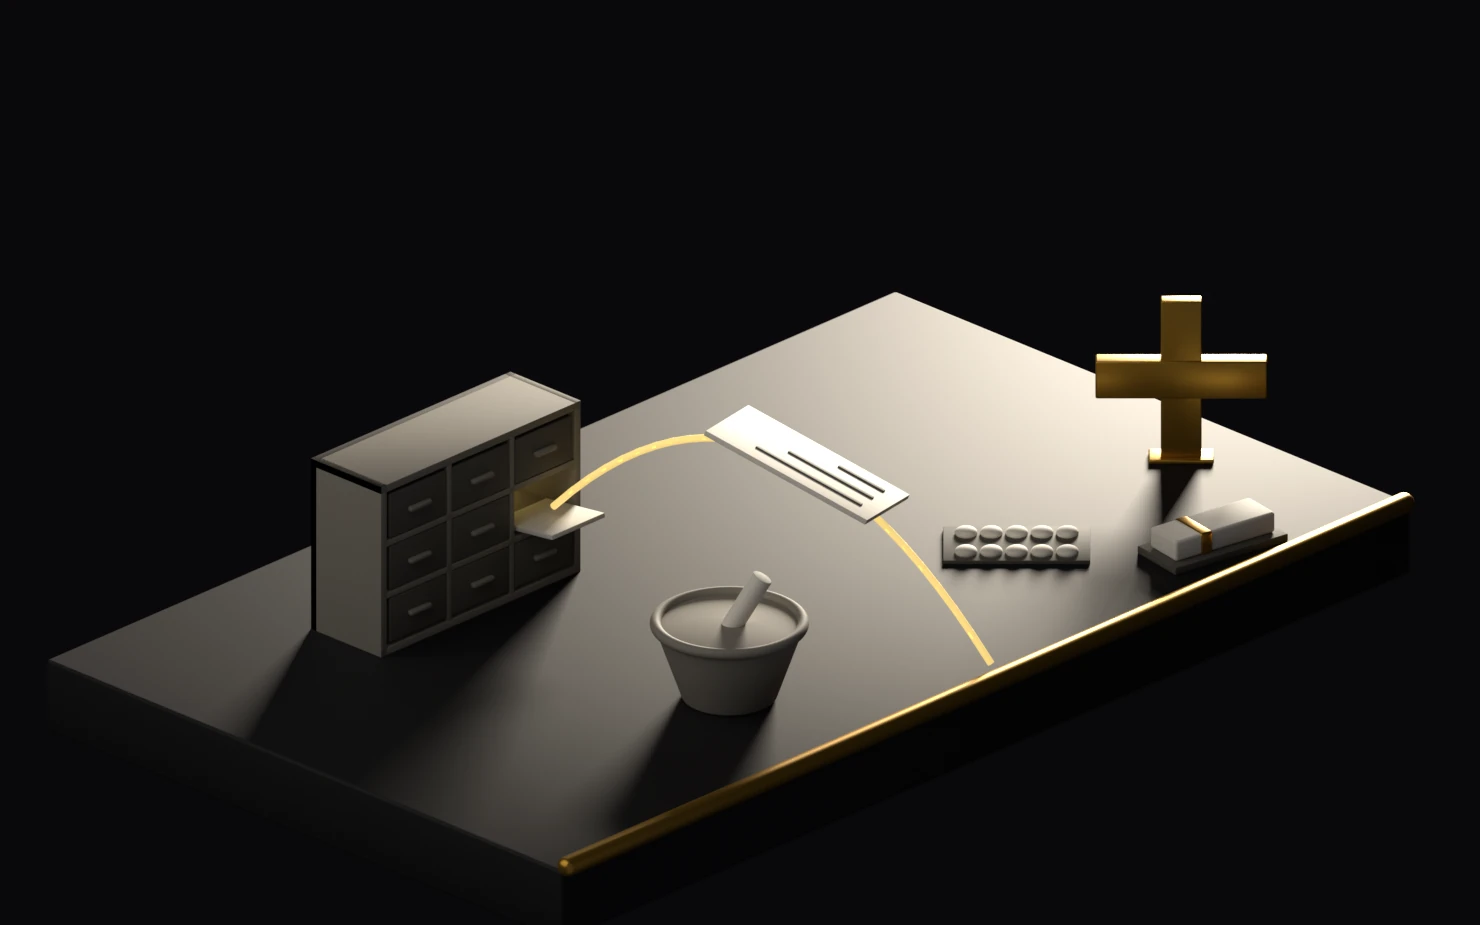
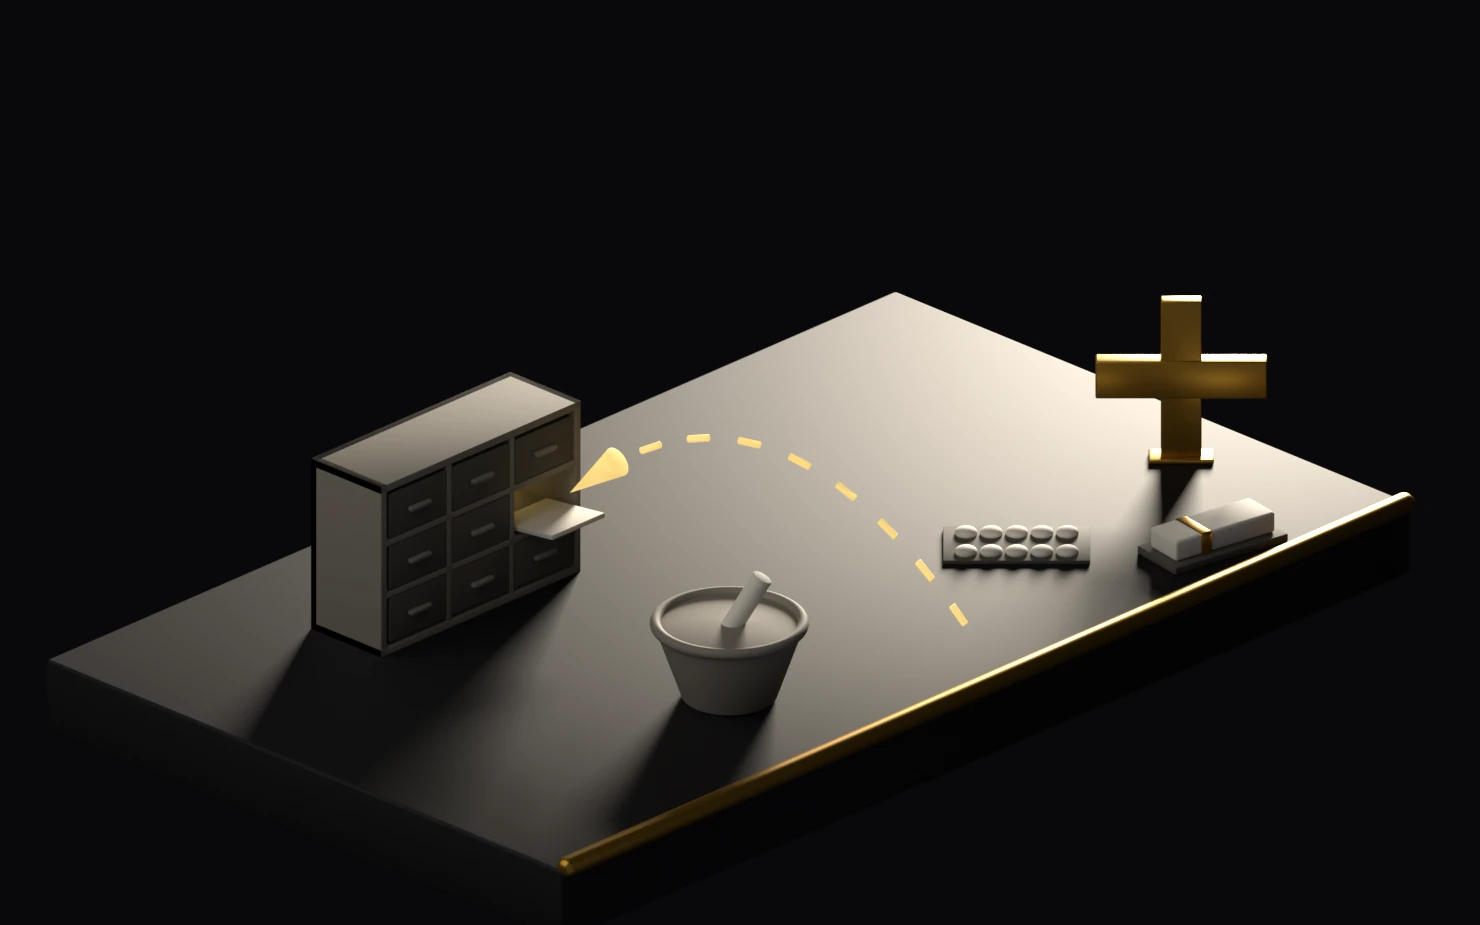
feat(secteurs): la pharmacie passe les quatre questions, et le flottement ne porte plus que sur l'objet en vol
QUATRE LECTEURS A L'AVEUGLE, protocole fixe, chemin d'image sans nom de projet.
Sur le metier : « pointent assez nettement vers le metier de pharmacien (officine) »,
« je trancherais pour pharmacien / pharmacie, sans hesitation majeure », et plus tot
« les elements le designent sans ambiguite […] pas d'hesitation possible ici ».

SUR L'AUTOMATISATION, IL A FALLU DEUX TOURS, et le premier verdict que j'ai annonce
etait faux. Un seul lecteur avait repondu oui ; un second, meme protocole, a repondu
NON avec un argument juste : « l'absence de personnage est simplement due au style de
rendu […] cela pourrait tout aussi bien symboliser un enchainement d'etapes realisees
manuellement par un pharmacien absent du cadre. Il n'y a ni robot, ni flece de
synchronisation. » Une absence ne prouve rien : il fallait un signe POSITIF.

D'ou la POINTE DE FLECHE au bout du trajet, et le trajet rendu franchement
POINTILLE — 8 tirets au lieu de 26 cylindres jointifs, vides au moins aussi longs
que les pleins (rapport 1,20 au pire a 370 px), et un vide franc aux DEUX bouts :
un trait qui part d'un objet et arrive sur un autre est un branchement, une suite de
points qui traverse l'espace est un trajet. C'est exactement ce qui avait fait lire
« un fil ou cordon » sur la scene voisine, par trois lecteurs sur quatre.

Les deux lecteurs suivants repondent oui, et disent sur quoi : « un flux ou un chemin
de traitement qui s'execute de lui-meme », « sans qu'aucune main ou personnage ne les
manipule ».
[…]

diff --git a/components/Sectors.tsx b/components/Sectors.tsx
@@ -55,6 +55,31 @@ const PALIERS_METIER = [370, 650, 880, 1100, 1480] as const;
  */
 const SCENES_METIER: Record<string, {
   fichier: string;
+  /**
+   * LE CALQUE DE TRANSIT — CE QUI FLOTTE, ET RIEN D'AUTRE.
+   *
+   * Le flottement de l'image entiere a ete retire : le socle existe pour etablir le
+   * contact au sol, le faire flotter dement ce qu'il dit. Ce qui doit flotter est
+   * l'objet CENSE etre en l'air — ici l'ordonnance en vol vers son casier.
+   *
+   * Une image raster ne permet pas d'animer une de ses regions, d'ou une seconde
+   * passe de rendu ne contenant QUE cet objet, sur fond transparent, cadree par la
+   * MEME camera a la MEME resolution. Le recalage est donc exact par construction :
+   * il n'y a aucun offset a calculer, donc aucune erreur possible. Verifie tout de
+   * meme a la source — boite des pixels opaques a 0,5 px de la projection calculee
+   * depuis la geometrie, et ecart de valeur maximal de 6/255 sur les pixels communs,
+   * pour un budget de bruit du debruiteur mesure a 7.
+   *
+   * ET L'IMAGE DE BASE EST RENDUE SANS CET OBJET, mais avec son ombre et son rebond
+   * (`visible_camera=False` le retire des rayons camera seulement). Sans cela, une
+   * lisiere de la feuille d'origine resterait visible sous le calque des qu'il
+   * bouge, et la feuille semblerait s'epaissir au lieu de se deplacer.
+   *
+   * IL EST CHARGE SANS DIFFERE. Si ce calque manquait, la scene perdrait l'objet en
+   * vol — c'est-a-dire precisement ce qui fait lire « personne ne l'a fait ». Ce
+   * n'est pas une decoration qu'on peut charger plus tard.
+   */
+  transit?: boolean;
   etiquettes: { cle: string; x: number; y: number; cx?: number; cy?: number }[];
 }> = {
   garage: {
@@ -66,6 +91,7 @@ const SCENES_METIER: Record<string, {
   },
   pharma: {
     fichier: "metier-pharmacie",
+    transit: true,
     etiquettes: [
       // le tri : l'etiquette est dans le ciel, le trait descend sur la case ouverte
       { cle: "pharmaLabelTri", x: 0.25, y: 0.35, cx: 0.3673, cy: 0.5426 },
@@ -446,6 +472,21 @@ export default function Sectors() {
                       decoding="async"
                       className="block w-full h-auto"
                     />
+                    {scene.transit && (
+                      <img
+                        data-sect-transit
+                        aria-hidden
+                        alt=""
+                        src={`/${scene.fichier}-transit-650.webp`}
+                        srcSet={PALIERS_METIER.map((p) =>
+                          `/${scene.fichier}-transit-${p}.webp ${p}w`).join(", ")}
+                        sizes="(max-width: 900px) calc(100vw - 40px), (max-width: 1200px) calc((100vw - 160px) * 0.625), 650px"
+                        width={1480}
+                        height={925}
+                        decoding="async"
+                        className="pointer-events-none absolute inset-0 block h-full w-full"
+                      />
+                    )}
                     {/* LES TRAITS DE RAPPEL, SOUS LES ETIQUETTES DANS L'ORDRE DU DOM
                         donc peints avant elles. Le viewBox est celui du rendu et la
                         boite est exactement a son rapport : aucune deformation, et

diff --git a/app/globals.css b/app/globals.css
@@ -238,3 +238,35 @@ main {
 
    La reference fait de meme : elle anime ses illustrations de SOLUTION et laisse
    statiques celles de PROBLEME. */
+
+/* ── LE FLOTTEMENT, SUR LE SEUL OBJET QUI EST CENSE ETRE EN L'AIR ───────────
+   Ce n'est pas le retour du flottement retire plus haut : celui-la portait le
+   PLATEAU, ce qui dementait le socle. Celui-ci ne porte qu'un calque contenant
+   l'ordonnance en vol, rendue seule sur fond transparent par la meme camera.
+
+   L'AMPLITUDE EST DIMENSIONNEE POUR ETRE VUE, et le chiffre vient de l'echec
+   precedent : 4 px crete-a-crete sur une demi-periode de 15 s donnaient 0,27 px/s
+   et le client n'a rien vu. Ici 3 % de la hauteur du cadre crete-a-crete, sur une
+   demi-periode de 5 s, soit environ 12 px et 2,4 px/s a la taille servie — dix fois
+   plus. Le garde-fou reste 1 % de mouvement propre a la profondeur concernee.
+
+   L'UNITE EST UN POURCENTAGE, PAS DES PIXELS. Un translate en pourcentage se
+   rapporte a la taille de l'element : le calque fait tout le cadre, donc 1,5 %
+   suivent l'image de 335 px de large sur telephone comme de 650 px sur ecran large.
+   Une valeur en pixels serait quatre fois trop grande en bas de gamme.
+
+   prefers-reduced-motion EST TRAITE EN CSS, donc avant meme que le JavaScript
+   n'ait tourne — une boucle autonome doit pouvoir s'arreter sans lui. */
+@keyframes nbhcTransit {
+  from { transform: translate3d(0, 1.5%, 0); }
+  to   { transform: translate3d(0, -1.5%, 0); }
+}
+
+[data-sect-transit] {
+  animation: nbhcTransit 5s ease-in-out infinite alternate;
+  will-change: transform;
+}
+
+@media (prefers-reduced-motion: reduce) {
+  [data-sect-transit] { animation: none; transform: none; }
+}
